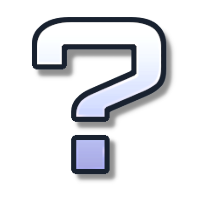
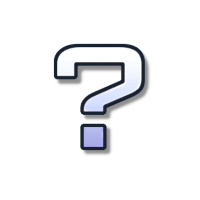
Make fog of war question mark a toggle

Changed region(s): [[0.15, 0.06, 0.87, 0.93]]

diff --git a/KhTracker/Windows/GridWindow.xaml b/KhTracker/Windows/GridWindow.xaml
@@ -47,6 +47,8 @@
             <MenuItem Header="Image Visuals" Focusable="False">
                 <MenuItem Header="Simple Icon Style" Click="TelevoIconsToggle" x:Name="TelevoIconsOption" IsCheckable="True" IsChecked="True"/>
                 <MenuItem Header="Game Icons Style" Click="SonicIconsToggle" x:Name="SonicIconsOption" IsCheckable="True" IsChecked="False"/>
+                <Separator/>
+                <MenuItem Header="Show `?` for Fog of War Squares" Click="FogIconToggle" x:Name="FogIconOption" IsCheckable="True" IsChecked="False"/>
             </MenuItem>
             <MenuItem Header="Seeds" Focusable="False">
                 <MenuItem Header="Save Card Settings" Click="DownloadCardSetting" />

diff --git a/KhTracker/Core/Toggles.cs b/KhTracker/Core/Toggles.cs
@@ -1584,6 +1584,45 @@ namespace KhTracker
             SavePreviousGridSettingsOption.IsChecked = toggle;
         }
 
+        private void FogIconToggle(object sender, RoutedEventArgs e)
+        {
+            FogIconToggle(FogIconOption.IsChecked);
+        }
+        private void FogIconToggle(bool toggle)
+        {
+            Properties.Settings.Default.FogIconSetting = toggle;
+            FogIconOption.IsChecked = toggle;
+
+            //revert or add the fog squares
+            if (grid != null)
+            {
+                // add Question Mark Image
+                if (toggle)
+                {
+                    foreach (var child in grid.Children)
+                    {
+                        if (child is ToggleButton square && square.Content == null)
+                        {
+                            square.SetResourceReference(ContentProperty, "Grid_QuestionMark");
+                        }
+                    }
+                }
+                else // remove image
+                {
+                    foreach (var child in grid.Children)
+                    {
+                        if (child is ToggleButton square)
+                        {
+                            if (square.Content is Image test && test.Source.ToString().EndsWith("QuestionMark.png"))
+                            {
+                                square.Content = null;
+                            }                   
+                        }
+                    }
+                }
+            }
+        }
+
         private void TelevoIconsToggle(object sender, RoutedEventArgs e)
         {
             TelevoIconsToggle(TelevoIconsOption.IsChecked);

diff --git a/KhTracker/Windows/GridWindow.xaml.cs b/KhTracker/Windows/GridWindow.xaml.cs
@@ -709,8 +709,11 @@ namespace KhTracker
                     if (!fogOfWar || buttonContentRevealed)
                         button.SetResourceReference(ContentProperty, assets[(i * numColumns) + j]);
                     else
-                        button.SetResourceReference(ContentProperty, "Grid_QuestionMark");
-
+                    {
+                        if (FogIconOption.IsChecked)
+                            button.SetResourceReference(ContentProperty, "Grid_QuestionMark");
+                    }
+                        
                     button.Background = new SolidColorBrush(currentColors["Unmarked Color"]);
                     button.Tag = assets[(i * numColumns) + j].ToString();
                     button.Style = (Style)FindResource("ColorToggleButton");
@@ -1415,6 +1418,10 @@ namespace KhTracker
             // save grid settings
             SavePreviousGridSettingsOption.IsChecked = Properties.Settings.Default.SavePreviousGridSetting;
             SavePreviousGridSettingsToggle(SavePreviousGridSettingsOption.IsChecked);
+
+            // enable fog of war image
+            FogIconOption.IsChecked = Properties.Settings.Default.FogIconSetting;
+            FogIconToggle(FogIconOption.IsChecked);
 
             // enable televo icons
             TelevoIconsOption.IsChecked = Properties.Settings.Default.TelevoIcons;

diff --git a/KhTracker/Properties/Settings.Designer.cs b/KhTracker/Properties/Settings.Designer.cs
@@ -12,7 +12,7 @@ namespace KhTracker.Properties {
     
     
     [global::System.Runtime.CompilerServices.CompilerGeneratedAttribute()]
-    [global::System.CodeDom.Compiler.GeneratedCodeAttribute("Microsoft.VisualStudio.Editors.SettingsDesigner.SettingsSingleFileGenerator", "17.9.0.0")]
+    [global::System.CodeDom.Compiler.GeneratedCodeAttribute("Microsoft.VisualStudio.Editors.SettingsDesigner.SettingsSingleFileGenerator", "17.4.0.0")]
     public sealed partial class Settings : global::System.Configuration.ApplicationSettingsBase {
         
         private static Settings defaultInstance = ((Settings)(global::System.Configuration.ApplicationSettingsBase.Synchronized(new Settings())));
@@ -1377,6 +1377,18 @@ namespace KhTracker.Properties {
             }
             set {
                 this["MinShipCount"] = value;
+            }
+        }
+        
+        [global::System.Configuration.UserScopedSettingAttribute()]
+        [global::System.Diagnostics.DebuggerNonUserCodeAttribute()]
+        [global::System.Configuration.DefaultSettingValueAttribute("False")]
+        public bool FogIconSetting {
+            get {
+                return ((bool)(this["FogIconSetting"]));
+            }
+            set {
+                this["FogIconSetting"] = value;
             }
         }
     }

diff --git a/KhTracker/Core/Images.cs b/KhTracker/Core/Images.cs
@@ -24,6 +24,8 @@ namespace KhTracker
         //item | dictionary key | ghost | shadow | path
         private Dictionary<Item, Tuple<string, Item, ContentControl, string>> CusItemCheck;
         private Dictionary<Item, Tuple<string, string>> CusItemCheckG;
+        //dictionary key/ new resource key
+        private Dictionary<string, Tuple<string, Item, ContentControl, string>> CusGridImages;
 
         //handle adding all custom images and such
         public void InitImages()
@@ -264,6 +266,8 @@ namespace KhTracker
                 {Ghost_ChestHAW,        new Tuple<string, string>("CustomImages/GhostChecks/chest_haw.png", "Cus-G_ChestHAW")},
                 {Ghost_ChestTWTNW,      new Tuple<string, string>("CustomImages/GhostChecks/chest_twtnw.png", "Cus-G_ChestTWTNW")}
             };
+        
+        
         }
 
         private void MainBG_DefToggle(object sender, RoutedEventArgs e)
